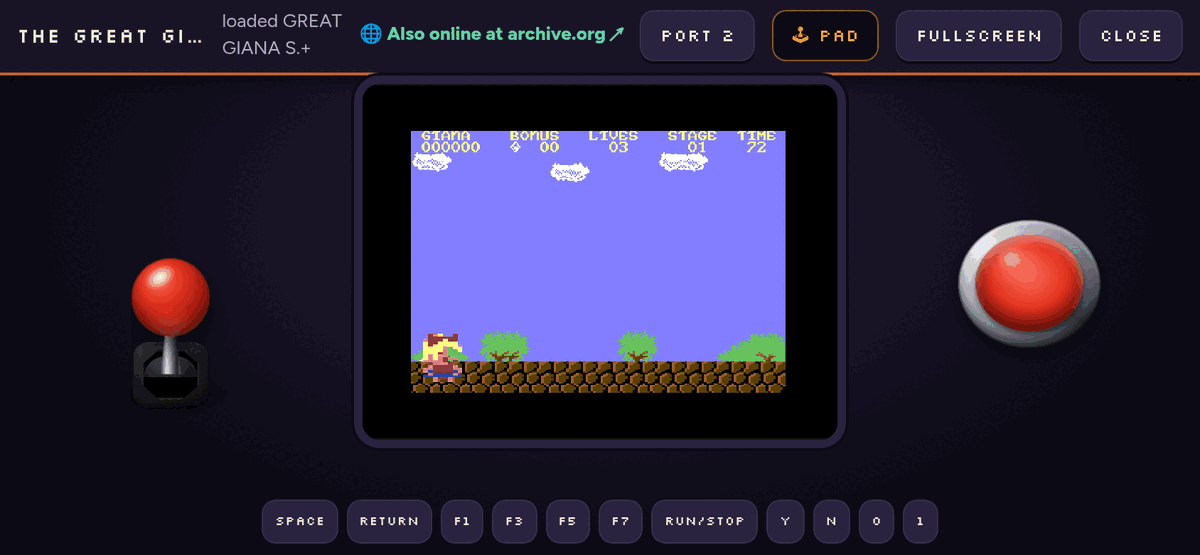
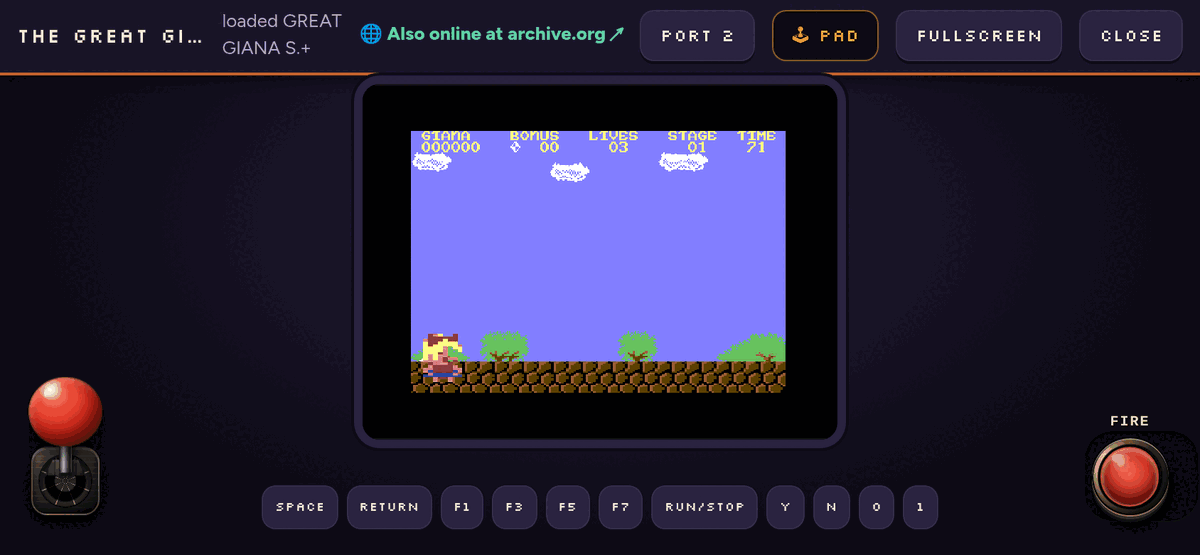
Touch pad uses <blip-deck> v1.0.0 from jsDelivr: one stick, one FIRE; new phone shot

diff --git a/docs/play/style.css b/docs/play/style.css
@@ -556,9 +556,7 @@ dialog[open] { animation: rise 160ms ease-out; }
 .pad { display: none; }
 .emu.touch .pad {
   display: grid;
-  grid-template-columns: 1fr 1fr;
   grid-template-rows: auto 1fr;
-  grid-template-areas: "keys keys" "stick fire";
   gap: 10px;
   flex: 1;
   min-height: 200px;
@@ -570,128 +568,33 @@ dialog[open] { animation: rise 160ms ease-out; }
 }
 .emu.touch .emu-stage { flex: none; padding: 10px 10px 4px; }
 .emu.touch .emu-note { display: none; }
-.pad-keys { grid-area: keys; display: flex; flex-wrap: wrap; gap: 6px; justify-content: center; }
+.pad-keys { display: flex; flex-wrap: wrap; gap: 6px; justify-content: center; }
 .key.pill.pad-key { font-size: 9px; padding: 8px 9px 10px; touch-action: none; }
 
-/* The control deck, from blip (github.com/jacobandresen/blip, MIT): glossy
-   black panel, a ball-top arcade stick on an octagonal gate that leans toward
-   the thumb (--dx / --dy, -1 to 1, set by touch.js) and a red arcade button in
-   a chrome bezel, both seen on a deck tilted away from the player. */
-.emu.touch .pad {
-  background:
-    linear-gradient(180deg, rgb(255 255 255 / 0.06) 0px, transparent 10px),
-    radial-gradient(ellipse 130% 70% at 50% 60%, rgb(255 255 255 / 0.1) 0%, rgb(255 255 255 / 0.03) 45%, transparent 72%),
-    linear-gradient(0deg, #1a1c1f 0%, #0c0d0f 55%, #030304 100%);
-  border-top: 1px solid rgb(255 255 255 / 0.16);
-  box-shadow: inset 0 1px 0 rgb(255 255 255 / 0.1), 0 -14px 28px -10px rgb(0 0 0 / 0.75);
+/* The stick and FIRE are the <blip-deck> control deck (blip-deck.css): its bar stands at the foot of the screen, as in blip. */
+.emu.touch .pad #topbar { left: 14px; right: 14px; }
+/* <blip-deck> is blip's two-player arcade panel: even with seats="1" it draws a second, dead station and
+   two caps per station. A C64 joystick is one stick and one button, so breadbin keeps station one only,
+   with its first cap, and spreads it over the whole deck: stick at the left end, FIRE at the right.
+   :root[data-seats] and #topbar out-rank blip's upright small-phone rule, which sets both stations to grid. */
+:root[data-seats="1"] .emu.touch .pad #topbar #deck-p2,
+.emu.touch .pad #deck-p1 .arcade-btn ~ .arcade-btn { display: none; }
+:root[data-seats="1"] .emu.touch .pad #topbar #deck-p1 {
+  display: flex; flex: 1 1 auto; flex-direction: row;
+  justify-content: space-between; align-items: flex-end;
 }
-.pad-stick { grid-area: stick; position: relative; display: grid; place-items: center; touch-action: none; }
-.deck-stick {
-  --dx: 0; --dy: 0;
-  --tilt: 26deg; /* the deck's tilt; the stick stands up out of it */
-  --lean: 3deg; /* a slight backward lean when idle */
-  position: relative; width: 150px; height: 190px;
-  transform: perspective(640px) rotateX(var(--tilt)); transform-origin: 50% 100%;
-  transform-style: preserve-3d; pointer-events: none;
-}
-/* the ball's shadow on the deck, sliding with the lean */
-.deck-stick::before {
-  content: ''; position: absolute; bottom: 6px; left: 50%; width: 120px; height: 40px; border-radius: 50%;
-  background: radial-gradient(ellipse, rgb(0 0 0 / 0.72) 0%, rgb(0 0 0 / 0.45) 40%, rgb(0 0 0 / 0.16) 64%, transparent 80%);
-  filter: blur(3px);
-  transform: translate(calc(-50% + var(--dx) * 20px), calc(var(--dy) * 11px));
-  transition: transform 55ms ease-out;
-}
-/* the boot: a black gate plate with the octagonal restrictor the shaft rides in */
-.deck-boot {
-  position: absolute; bottom: 10px; left: 50%; width: 76px; height: 76px; transform: translateX(-50%);
-  border-radius: 16px; background: linear-gradient(155deg, #3a3a3e 0%, #1c1c1e 45%, #0b0b0c 100%);
-  box-shadow: 0 3px 8px rgb(0 0 0 / 0.6), inset 0 1px 0 rgb(255 255 255 / 0.08), inset 0 -3px 5px rgb(0 0 0 / 0.5);
-}
-.deck-boot::before {
-  content: ''; position: absolute; inset: 9px; background: #040404;
-  clip-path: polygon(30% 0%, 70% 0%, 100% 30%, 100% 70%, 70% 100%, 30% 100%, 0% 70%, 0% 30%);
-  box-shadow: inset 0 0 0 2px rgb(255 255 255 / 0.14), inset 0 3px 8px rgb(0 0 0 / 0.85);
-}
-/* shaft and ball pivot at the gate's centre: rotating this point swings the stick */
-.deck-handle {
-  position: absolute; left: 50%; bottom: 48px; width: 0; height: 0;
-  transform: rotateX(calc(var(--tilt) * -1 - var(--lean) + var(--dy) * -12deg)) rotate(calc(var(--dx) * 18deg));
-  transform-style: preserve-3d; transition: transform 55ms ease-out; will-change: transform;
-}
-/* rubber dust skirt where the shaft leaves the gate */
-.deck-handle::before {
-  content: ''; position: absolute; left: -27px; bottom: -12px; width: 54px; height: 30px;
-  border-radius: 50% 50% 40% 40% / 90% 90% 30% 30%;
-  background: radial-gradient(ellipse at 40% 25%, #4a4a4f 0%, #1d1d20 55%, #08080a 100%);
-  box-shadow: inset 0 1px 1px rgb(255 255 255 / 0.18), 0 3px 4px rgb(0 0 0 / 0.6);
-}
-.deck-shaft {
-  position: absolute; left: 50%; bottom: 0; width: 20px; height: 54px; transform: translateX(-50%);
-  clip-path: polygon(28% 0%, 72% 0%, 100% 100%, 0% 100%);
-  background: linear-gradient(90deg, #2c2c30 0%, #8e9096 14%, #f4f5f7 30%, #b9bbc0 46%, #5c5e64 66%, #1f2023 84%, #74767c 100%);
-}
-/* the ball-top: glossy red bakelite, facing the player at any lean */
-.deck-ball {
-  position: absolute; left: 50%; bottom: 54px; width: 78px; height: 78px; border-radius: 50%;
-  transform: translate(-50%, calc(22% + var(--dy) * 14px)) rotateX(calc(var(--lean) + var(--dy) * 12deg)) translateZ(5px);
-  background:
-    radial-gradient(circle at 50% 108%, rgb(255 120 100 / 0.55) 0%, transparent 42%),
-    radial-gradient(circle at 36% 28%, #ff6d58 0%, #e0301f 30%, #a5150b 62%, #560a05 100%);
-  box-shadow: 0 10px 18px rgb(0 0 0 / 0.5), 0 24px 36px rgb(0 0 0 / 0.3), inset 0 -7px 14px rgb(0 0 0 / 0.45), inset 0 0 0 1px rgb(60 0 0 / 0.35);
-}
-.deck-ball::after {
-  content: ''; position: absolute; left: 17%; top: 11%; width: 40%; height: 26%; border-radius: 50%;
-  background: radial-gradient(ellipse, rgb(255 255 255 / 0.95) 0%, rgb(255 255 255 / 0.45) 45%, transparent 75%);
-  transform: rotate(-32deg);
-}
-.pad-stick.active .deck-handle, .pad-stick.active .deck-stick::before { transition-duration: 30ms; }
-
-/* FIRE: a red arcade button set in a chrome bezel, on the same tilted deck */
-.pad-fire {
-  grid-area: fire; justify-self: center; align-self: center;
-  width: min(124px, 32vw); aspect-ratio: 1; padding: 0; border: 0;
-  transform: perspective(640px) rotateX(26deg);
-  touch-action: none;
-}
-.arcade-btn {
-  position: relative; border-radius: 50%;
-  background: conic-gradient(from -50deg, #eceef1, #9a9ea6 20%, #33363b 50%, #9a9ea6 80%, #eceef1 100%);
-  box-shadow: 0 5px 10px rgb(0 0 0 / 0.6), inset 0 0 0 1px rgb(0 0 0 / 0.4), inset 0 3px 3px rgb(255 255 255 / 0.35), inset 0 -5px 6px rgb(0 0 0 / 0.55);
-  transition: box-shadow 60ms ease-out;
-}
-.arcade-btn-cap {
-  position: absolute; inset: 12%; border-radius: 50%;
-  background:
-    radial-gradient(circle at 33% 26%, rgb(255 255 255 / 0.6) 0%, rgb(255 255 255 / 0.12) 13%, transparent 30%),
-    radial-gradient(circle at 50% 44%, #ff6a58 0%, #e5361f 44%, #a3160b 78%, #6b0c05 100%);
-  box-shadow: 0 2px 3px rgb(0 0 0 / 0.45), inset 0 5px 7px rgb(255 255 255 / 0.4), inset 0 -8px 12px rgb(0 0 0 / 0.45);
-  transition: transform 60ms ease-out, box-shadow 60ms ease-out;
-}
-/* pressed: the button settles into the deck and the cap dishes in */
-.arcade-btn.on { box-shadow: 0 1px 3px rgb(0 0 0 / 0.6), inset 0 0 0 1px rgb(0 0 0 / 0.4), inset 0 -3px 4px rgb(255 255 255 / 0.2); }
-.arcade-btn.on .arcade-btn-cap { transform: scale(0.94); box-shadow: inset 0 6px 10px rgb(0 0 0 / 0.55), inset 0 -3px 4px rgb(255 255 255 / 0.14); }
-
+/* blip's upright rule pins the stick to the top of its station and the caps to the foot; side by side
+   they share the foot, as they do sideways. */
+:root[data-seats="1"] .emu.touch .pad #topbar :is(#stick-base, #fire-buttons) { align-self: end; }
 /* Landscape phones: the screen in the middle, stick left, fire right. */
 @media (orientation: landscape) and (max-height: 600px) {
   .emu.touch .emu-bar { padding: 6px 12px 9px; }
   /* dvh: the height Safari leaves between its toolbars; the keys get a row under the screen */
   .emu.touch .emu-stage { flex: 1; padding: 6px; align-items: start; }
   .emu.touch .emu-frame { width: calc((100vh - 140px) * 1.333); width: calc((100dvh - 140px) * 1.333); box-shadow: 0 0 0 6px var(--plum), 0 0 0 8px var(--key-edge); }
-  .emu.touch .pad {
-    position: absolute; inset: 50px 0 0 0;
-    grid-template-columns: 1fr calc((100vh - 140px) * 1.333 + 30px) 1fr;
-    grid-template-columns: 1fr calc((100dvh - 140px) * 1.333 + 30px) 1fr;
-    grid-template-rows: 1fr auto;
-    grid-template-areas: "stick . fire" "keys keys keys";
-    padding: 6px 10px calc(8px + env(safe-area-inset-bottom));
-    pointer-events: none;
-  }
-  .emu.touch .pad > * { pointer-events: auto; }
-  /* the screen sits between stick and button: no panel behind it, smaller parts */
-  .emu.touch .pad { background: none; border-top: 0; box-shadow: none; }
-  .deck-stick { scale: 0.72; }
-  .pad-fire { width: min(100px, 22vh * 2); }
+  /* Sideways the deck is a fixed overlay in the gutters, so the pad holds only the key row: given the
+     upright pad's 200px it squeezed the stage, and the frame spilled under the keys. */
+  .emu.touch .pad { flex: none; min-height: 0; padding: 6px 10px calc(8px + env(safe-area-inset-bottom)); }
 }
 
 /* ── Boot screen: the oven preheating ────────────────────────────── */

diff --git a/docs/play/touch.js b/docs/play/touch.js
@@ -1,11 +1,11 @@
 // touch - an on-screen joystick for phones and tablets, drawn in breadbin's own
-// page around the emulator rather than over the C64 screen: the control deck of
-// blip (github.com/jacobandresen/blip, MIT), a ball-top arcade stick that leans
-// with the thumb and a red arcade FIRE button. The stick floats (it centres
-// wherever your thumb lands in its half), and a row of keys covers what joystick games ask for at the
-// title screen (SPACE, RETURN, F1-F7, RUN/STOP) and the Y/N and number
-// questions of crack trainer menus. Input reaches vc64web through
-// the listener installed by PAD_LISTENER.
+// page around the emulator rather than over the C64 screen: the <blip-deck> control deck
+// (github.com/jacobandresen/blip-deck, MIT; loaded from jsDelivr by index.html), a
+// ball-top arcade stick with an 8-way gate that leans with the thumb, and red
+// FIRE caps. A row of keys covers what joystick games ask for at the title
+// screen (SPACE, RETURN, F1-F7, RUN/STOP) and the Y/N and number questions of
+// crack trainer menus. Input reaches vc64web through the listener installed by
+// PAD_LISTENER.
 
 /** Script for vc64web's {cmd: "script"}: route breadbin's pad messages to the
  *  emulator's own joystick and keyboard handlers. */
@@ -44,25 +44,15 @@ const KEYS = [
   ['1', [7, 0]],
 ];
 
-const DEAD_ZONE = 14; // px before a direction registers
-const REACH = 46; // px the knob can travel
-
 /**
- * Build the pad inside `root`. `send(message)` posts to the emulator frame.
- * Returns { el, setPort(n), destroy() }.
+ * Build the pad inside `root`: the keys, and a <blip-deck> (from jsDelivr, see index.html) for the stick and FIRE.
+ * `send(message)` posts to the emulator frame. Returns { el, setPort(n), destroy() }.
  */
 export function createPad(root, send, { port = 2 } = {}) {
+  const { BlipDeck, BlipController } = window;
   const el = document.createElement('div');
   el.className = 'pad';
-  el.innerHTML = `
-    <div class="pad-keys"></div>
-    <div class="pad-stick" aria-label="Joystick">
-      <div class="deck-stick">
-        <div class="deck-boot"></div>
-        <div class="deck-handle"><div class="deck-shaft"></div><div class="deck-ball"></div></div>
-      </div>
-    </div>
-    <button class="pad-fire arcade-btn" aria-label="Fire"><span class="arcade-btn-cap"></span></button>`;
+  el.innerHTML = '<div class="pad-keys"></div><div id="topbar" class="kiosk-bar"><blip-deck seats="1" buttons=\'[{"label":"FIRE"}]\'></blip-deck></div>';
   root.append(el);
 
   const keys = el.querySelector('.pad-keys');
@@ -81,80 +71,38 @@ export function createPad(root, send, { port = 2 } = {}) {
     keys.append(b);
   }
 
-  // ── stick ──
-  const zone = el.querySelector('.pad-stick');
-  const stick = el.querySelector('.deck-stick');
-  // the stick leans toward the thumb: --dx / --dy run from -1 to 1
-  const lean = (dx = 0, dy = 0) => {
-    stick.style.setProperty('--dx', (dx / REACH).toFixed(2));
-    stick.style.setProperty('--dy', (dy / REACH).toFixed(2));
-  };
-  let stickId = null;
-  let origin = null;
+  // The deck reads its layout from the page: upright, or sideways on a phone.
+  const html = document.documentElement;
+  const layout = () => html.setAttribute('data-layout', innerHeight <= 520 && innerWidth > innerHeight * 1.25 ? 'landscape' : 'upright');
+  layout();
+  addEventListener('resize', layout);
+  html.setAttribute('data-controls', 'stick');
+  html.toggleAttribute('data-has-touch', 'ontouchstart' in window || navigator.maxTouchPoints > 0);
+  const stick = el.querySelector('#stick-base'), fire = el.querySelector('#fire-buttons');
+
+  // The deck's logical inputs become the C64 joystick's: both caps fire.
+  const held = {};
   let state = { x: 'RELEASE_X', y: 'RELEASE_Y' };
-
-  const setDir = (x, y) => {
-    const cmds = [];
-    if (x !== state.x) cmds.push(port + x);
-    if (y !== state.y) cmds.push(port + y);
-    if (!cmds.length) return;
-    state = { x, y };
-    send({ bbjoy: cmds });
-    if (x !== 'RELEASE_X' || y !== 'RELEASE_Y') buzz(4);
-  };
-
-  zone.addEventListener('pointerdown', (e) => {
-    if (stickId !== null) return;
-    e.preventDefault();
-    stickId = e.pointerId;
-    zone.setPointerCapture(e.pointerId);
-    origin = { x: e.clientX, y: e.clientY };
-    zone.classList.add('active');
-    move(e);
+  BlipController.init({
+    onInput(name, down) {
+      held[name] = down;
+      if (name === 'button1' || name === 'button2') {
+        send({ bbjoy: [port + (down ? 'PRESS_FIRE' : 'RELEASE_FIRE')] });
+        if (down) buzz(10);
+        return;
+      }
+      BlipDeck.lean(stick, (held.right ? 1 : 0) - (held.left ? 1 : 0), (held.down ? 1 : 0) - (held.up ? 1 : 0));
+      const x = held.right ? 'PULL_RIGHT' : held.left ? 'PULL_LEFT' : 'RELEASE_X';
+      const y = held.down ? 'PULL_DOWN' : held.up ? 'PULL_UP' : 'RELEASE_Y';
+      const cmds = [];
+      if (x !== state.x) cmds.push(port + x);
+      if (y !== state.y) cmds.push(port + y);
+      state = { x, y };
+      if (cmds.length) { send({ bbjoy: cmds }); if (x !== 'RELEASE_X' || y !== 'RELEASE_Y') buzz(4); }
+    },
   });
-  const move = (e) => {
-    if (e.pointerId !== stickId) return;
-    let dx = e.clientX - origin.x;
-    let dy = e.clientY - origin.y;
-    const dist = Math.hypot(dx, dy);
-    if (dist > REACH) {
-      // the centre follows a wandering thumb, so turning back acts at once
-      const pull = dist - REACH;
-      origin.x += (dx / dist) * pull;
-      origin.y += (dy / dist) * pull;
-      dx = e.clientX - origin.x;
-      dy = e.clientY - origin.y;
-    }
-    lean(dx, dy);
-    if (Math.hypot(dx, dy) < DEAD_ZONE) return setDir('RELEASE_X', 'RELEASE_Y');
-    // eight 45° sectors, like a real microswitch stick
-    const sector = Math.round(Math.atan2(dy, dx) / (Math.PI / 4));
-    const x = [0, 1, -1].includes(sector) ? 'PULL_RIGHT' : [3, 4, -4, -3].includes(sector) ? 'PULL_LEFT' : 'RELEASE_X';
-    const y = [1, 2, 3].includes(sector) ? 'PULL_DOWN' : [-1, -2, -3].includes(sector) ? 'PULL_UP' : 'RELEASE_Y';
-    setDir(x, y);
-  };
-  zone.addEventListener('pointermove', move);
-  const release = (e) => {
-    if (e.pointerId !== stickId) return;
-    stickId = null;
-    zone.classList.remove('active');
-    lean();
-    setDir('RELEASE_X', 'RELEASE_Y');
-  };
-  zone.addEventListener('pointerup', release);
-  zone.addEventListener('pointercancel', release);
-
-  // ── fire ──
-  const fire = el.querySelector('.pad-fire');
-  const fireDown = (down) => (e) => {
-    e.preventDefault();
-    if (fire.classList.contains('on') === down) return;
-    fire.classList.toggle('on', down);
-    send({ bbjoy: [port + (down ? 'PRESS_FIRE' : 'RELEASE_FIRE')] });
-    if (down) buzz(10);
-  };
-  fire.addEventListener('pointerdown', fireDown(true));
-  for (const ev of ['pointerup', 'pointercancel', 'pointerleave']) fire.addEventListener(ev, fireDown(false));
+  BlipController.bindButtons(fire);
+  const unbind = BlipDeck.bindStick({ stick, fire, dirs: { up: 'up', down: 'down', left: 'left', right: 'right' } });
 
   // the pad never scrolls, zooms or opens a context menu
   el.addEventListener('contextmenu', (e) => e.preventDefault());
@@ -168,7 +116,13 @@ export function createPad(root, send, { port = 2 } = {}) {
   return {
     el,
     setPort,
-    destroy: () => el.remove(),
+    destroy: () => {
+      unbind();
+      BlipController.releaseAll();
+      removeEventListener('resize', layout);
+      for (const a of ['data-layout', 'data-controls', 'data-has-touch']) html.removeAttribute(a);
+      el.remove();
+    },
   };
 }
 

diff --git a/docs/play/settings.js b/docs/play/settings.js
@@ -71,7 +71,7 @@ const CREDITS = [
   ['resid-rs', 'https://github.com/digitalstreamio/resid-rs', 'Rust port of reSID by Dag Lem: the SID chip of the player (GPL-3.0).'],
   ['Exomizer', 'https://bitbucket.org/magli143/exomizer', 'by Magnus Lind: its decruncher, ported to unpack EasySplit files (zlib-style licence).'],
   ['EasyFlash', 'https://skoe.de/easyflash/', 'by Thomas Giesel (skoe): the cartridge and EasySplit formats.'],
-  ['blip', 'https://github.com/jacobandresen/blip', 'the control deck of the touch pad: its arcade stick and button (MIT).'],
+  ['blip-deck', 'https://github.com/jacobandresen/blip-deck', 'the control deck of the touch pad: its arcade stick and button (MIT), built with Lit (BSD-3-Clause).'],
   ['ACME', 'https://github.com/meonwax/acme', 'by Marco Baye: the cross-assembler of the Hack tab (GPL-2.0).'],
   ['GameBase64', 'https://www.gb64.com/', 'the games and their facts.'],
   ['Internet Archive', 'https://archive.org/details/softwarelibrary_c64', 'the games, demos and HVSC copy everything downloads from.'],

diff --git a/docs/play/index.html b/docs/play/index.html
@@ -13,6 +13,7 @@
 <link rel="preconnect" href="https://fonts.gstatic.com" crossorigin>
 <link rel="preconnect" href="https://archive.org">
 <link rel="stylesheet" href="https://fonts.googleapis.com/css2?family=Figtree:wght@400;600;800&family=Pixelify+Sans:wght@500;700&family=Silkscreen&display=swap">
+<link rel="stylesheet" href="https://cdn.jsdelivr.net/gh/jacobandresen/blip-deck@v1.0.0/blip-deck.css">
 <link rel="stylesheet" href="style.css">
 </head>
 <body>
@@ -95,6 +96,7 @@
 
 <div id="toast" class="toast" role="status" aria-live="polite"></div>
 
+<script src="https://cdn.jsdelivr.net/gh/jacobandresen/blip-deck@v1.0.0/dist/blip-deck.js"></script>
 <script type="module" src="app.js"></script>
 </body>
 </html>

diff --git a/README.md b/README.md
@@ -99,8 +99,10 @@ Breadbin runs on free software, each under its own licence:
   under Exomizer's zlib-style licence).
 - [EasyFlash](https://skoe.de/easyflash/) by Thomas Giesel: the cartridge and
   EasySplit formats.
-- [blip](https://github.com/jacobandresen/blip): the control deck of the touch
-  pad, its ball-top arcade stick and red arcade button (MIT).
+- [blip-deck](https://github.com/jacobandresen/blip-deck): the control deck of the
+  touch pad, its ball-top arcade stick and red arcade buttons (MIT, built with Lit),
+  loaded from jsDelivr at a pinned tag (`docs/play/index.html`); change the tag
+  there to update it.
 - [ACME](https://github.com/meonwax/acme) by Marco Baye: the assembler of the
   Hack tab, built to WebAssembly (GPL-2.0).
 - Pixelify Sans, Silkscreen and Figtree from Google Fonts (SIL Open Font License).
